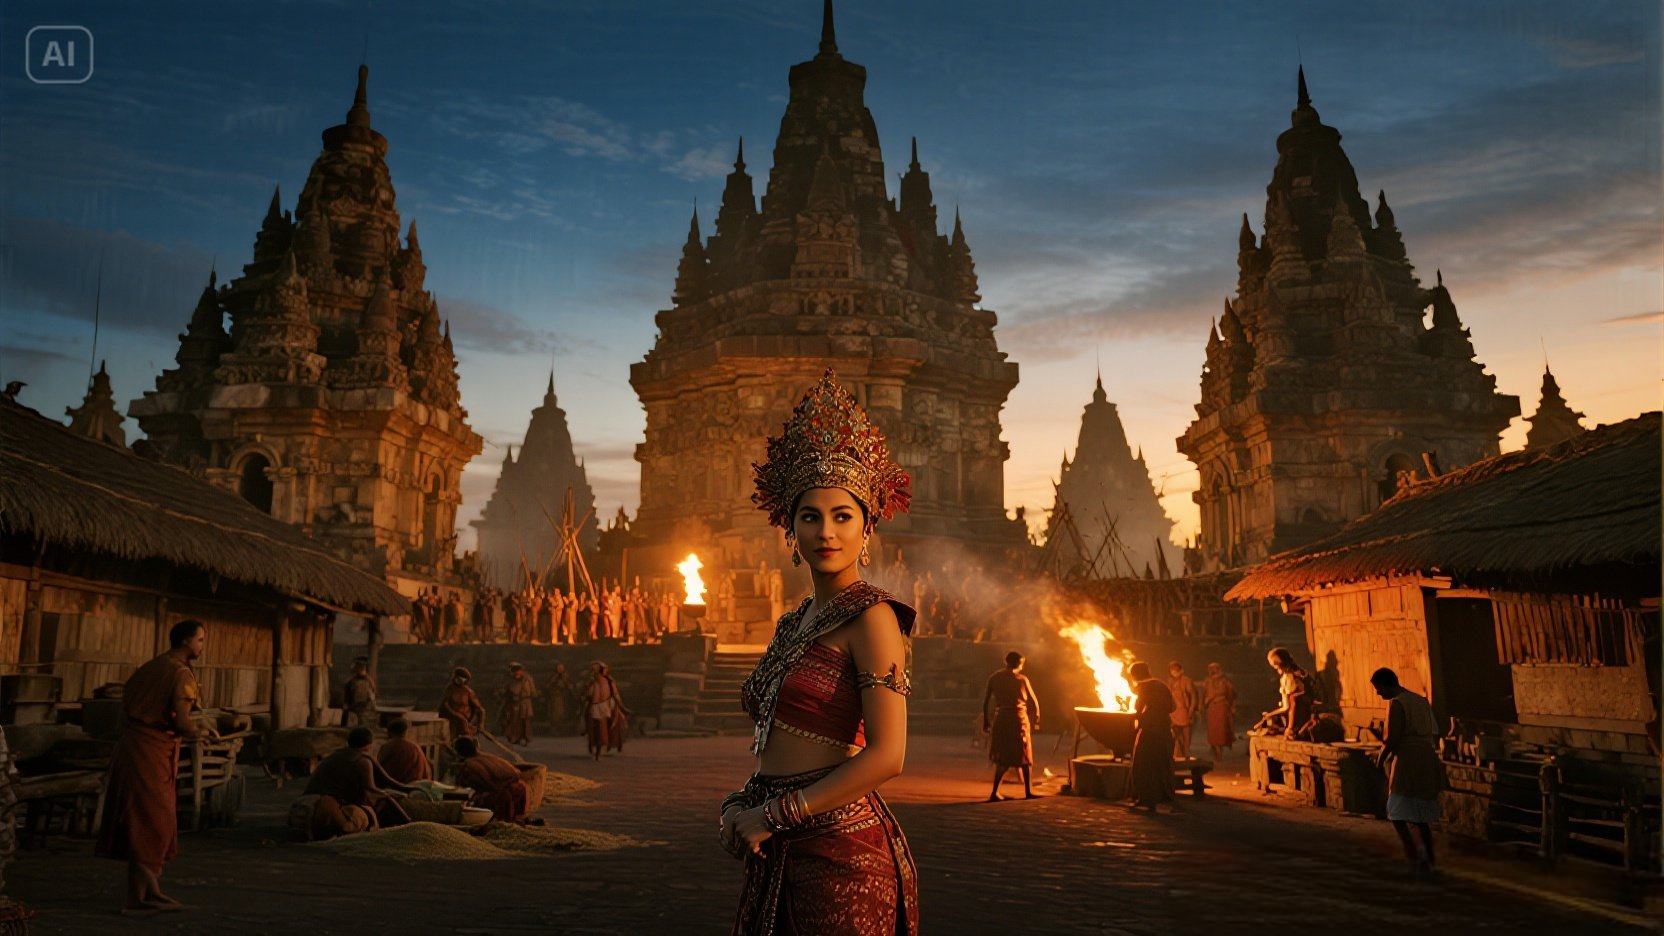
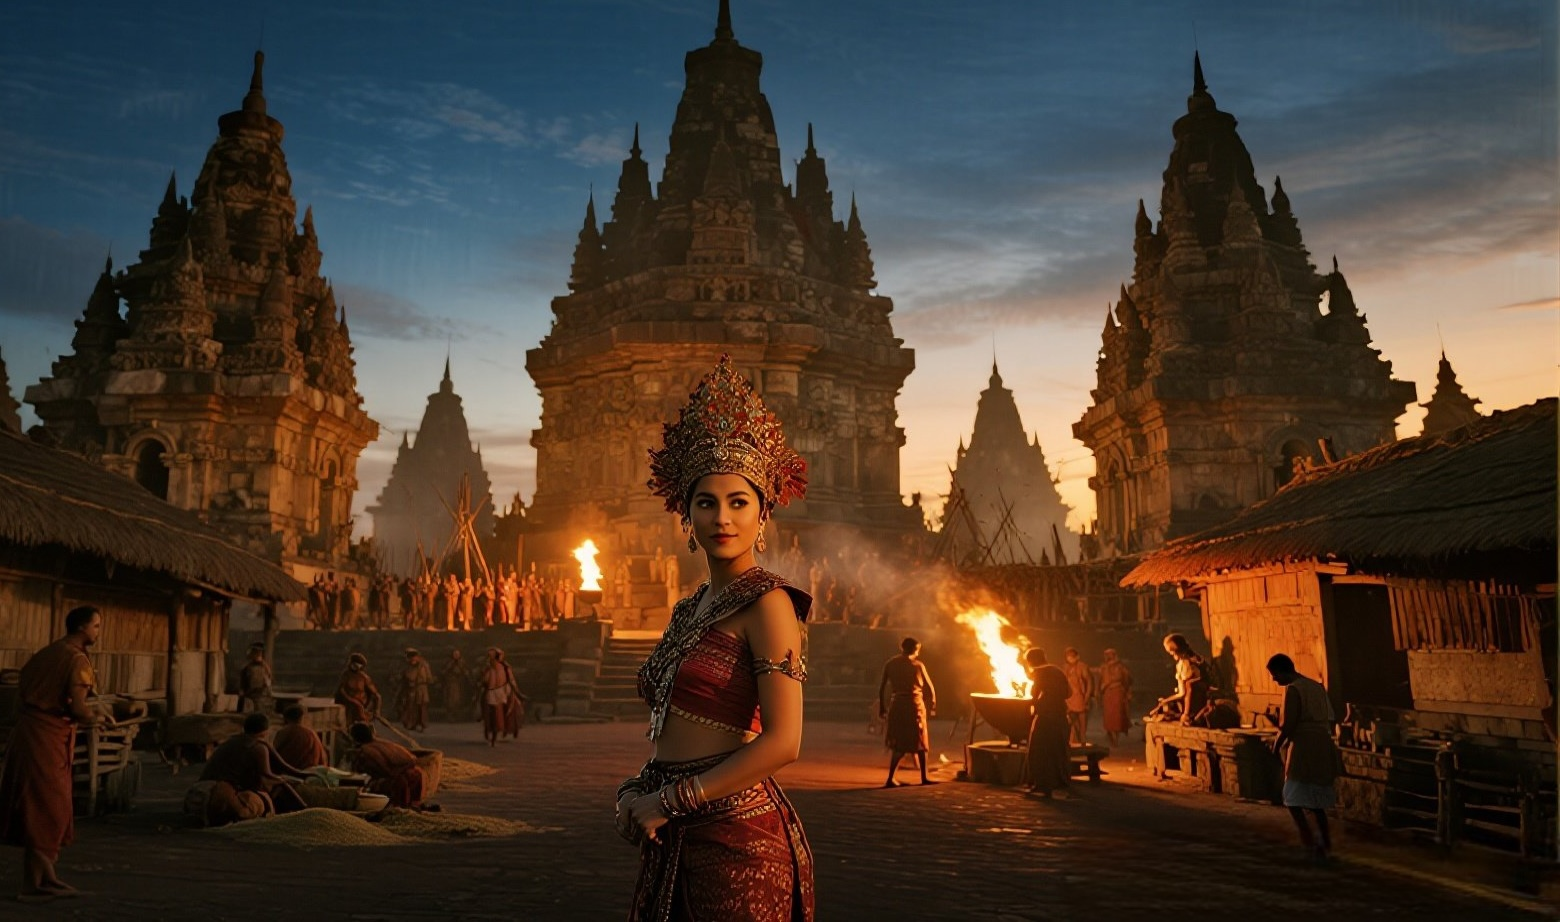
Mengganti object-fit: contain menjadi object-fit: cover untuk Full Screen, menghilangkan bagian kosong.

diff --git a/index.html b/index.html
@@ -64,9 +64,11 @@
         z-index: 1; 
     }
     
+    /* FIX KRITIS 1: object-fit: cover (memastikan foto mengisi penuh layar) */
     #background, #character {
         position: absolute; inset: 0; width: 100%; height: 100%; 
-        object-fit: cover;
+        object-fit: cover; /* PERUBAHAN DI SINI */
+        background-color: black; 
     }
 
     #background {
@@ -80,7 +82,8 @@
     }
 
     #textbox {
-        position:absolute; bottom:0; width:100%; background:rgba(0,0,0,0.7);
+        position:absolute; bottom:0; width:100%; 
+        background:rgba(0,0,0,0.7);
         padding:20px; box-sizing:border-box;
         z-index: 20;
         opacity:0; transition: opacity .5s;
@@ -261,15 +264,16 @@
             font-size: 1.1rem;
         }
         
-        /* Penyesuaian Textbox (Kotak Dialog) */
+        /* FIX KRITIS 2: Penyesuaian Textbox (Kotak Dialog) */
         #textbox {
-            padding: 10px; 
-            max-height: 40vh; 
+            padding: 8px; 
+            max-height: 25vh; 
             overflow-y: auto; 
+            background:rgba(0,0,0,0.7); 
         }
         #text {
-            font-size: 1.1rem; 
-            min-height: 3em; 
+            font-size: 1.0rem; 
+            min-height: 2em; 
         }
 
         /* Penyesuaian Tombol Kontrol */
@@ -408,7 +412,8 @@ const scenes = {
     toba_scene2: { bg: "images/toba_full3.jpg", char: "", text: "Wanita itu setuju menikah dengan Toba, dengan satu syarat mutlak: Toba tidak boleh menceritakan asal usulnya kepada siapa pun, termasuk kepada anak mereka kelak.", next: "toba_scene3" },
     toba_scene3: { bg: "images/toba_full4.jpg", char: "", text: "Toba menyanggupi dan mereka menikah, memiliki seorang putra bernama Samosir. Samosir tumbuh menjadi anak yang malas.", next: "toba_scene4" },
     toba_scene4: { bg: "images/toba_full5.jpg", char: "", text: "Suatu hari, Toba marah besar karena Samosir tidak menjalankan perintahnya dan malah menghabiskan bekal makanan Toba. Dalam amarahnya, Toba berteriak: 'Dasar anak ikan!' Samosir menangis dan ibunya yang mengetahui sangat kecewa.", next: "toba_scene5" },
-    toba_scene5: { bg: "images/toba_full6.jpg", char: "", text: "Seketika akibat amarah sang istri langit menjadi mendung, dan hujan deras turun disertai gempa bumi. Air meluap dan menenggelamkan desa Toba, membentuk Danau Toba. Istri Toba kembali menjadi ikan, dan Samosir menjadi pulau di tengah danau.", next: "toba_end" },
+    toba_scene5: { bg: "images/toba_full6.jpg", char: "", text: "Seketika akibat amarah sang istri langit menjadi mendung, dan hujan deras turun disertai gempa bumi. Air meluap dan menenggelamkan desa Toba, membentuk Danau Toba. Istri Toba kembali menjadi ikan, dan Samosir menjadi pulau di tengah danau.", next: "toba_scene5" },
+    toba_scene5: { bg: "images/toba_full7.jpg", char: "", text: "Seketika akibat amarah sang istri langit menjadi mendung, dan hujan deras turun disertai gempa bumi. Air meluap dan menenggelamkan desa Toba, membentuk Danau Toba. Istri Toba kembali menjadi ikan, dan Samosir menjadi pulau di tengah danau.", next: "toba_end" },
     toba_end: {
         bg: "images/toba_full_end.jpg", char: "", text: "Hingga kini, Danau Toba yang indah dan Pulau Samosir menjadi pengingat abadi akan janji yang dilanggar dan konsekuensi dari amarah yang tak terkendali. (Akhir Kisah Danau Toba 🏞).", next: "selection"
     },
@@ -476,7 +481,6 @@ function makeSparkles() {
 }
 function enableSparkles(enable) {
     sparklesContainer.style.opacity = enable ? 1 : 0;
-    // sparklesContainer.style.display = enable ? 'block' : 'none'; // Dihapus karena opacity sudah mengontrol tampilan
 }
 makeSparkles(); 
 
@@ -509,7 +513,6 @@ function fadeOutBGM(callback) {
 
 function fadeInBGM() {
     bgm.volume = 0;
-    // Menggunakan play() dalam try-catch untuk menangani batasan browser (seperti di seluler)
     bgm.play().then(() => {
         isMusicPlaying = true;
         btnBgm.innerText = '🔇 Musik';
@@ -537,20 +540,16 @@ function fadeInBGM() {
 
 // --- FUNGSI BGM (MODIFIKASI) ---
 function playBGM(newMusicPath) {
-    // Cek apakah musik yang baru sama dengan yang sedang diputar
     if (bgm.src.indexOf(newMusicPath) !== -1 && isMusicPlaying) {
-        return; // Tidak perlu ganti jika musiknya sama
+        return; 
     }
     
-    // 1. Matikan musik lama dengan fade out
     fadeOutBGM(() => {
-        // 2. Setelah fade out selesai, atur sumber musik baru
         if (bgm.src.indexOf(newMusicPath) === -1) {
             bgm.src = newMusicPath;
             bgm.load();
         }
         
-        // 3. Putar dan lakukan fade in
         fadeInBGM();
     });
 }
@@ -605,7 +604,6 @@ function startTransition(callback) {
 startButton.onclick = () => {
     introScreen.style.opacity = 0; 
     
-    // Inisialisasi musik dan Fade In pertama kali (Dipicu oleh interaksi pengguna)
     bgm.src = DEFAULT_BGM;
     bgm.load();
     fadeInBGM(); 
@@ -625,7 +623,6 @@ function loadScene(key) {
     if(!sc) return;
 
     startTransition(() => {
-        // GANTI MUSIK JIKA ADA PERUBAHAN DI SCENE BARU 
         if (sc.music) { playBGM(sc.music); }
 
         clearTimeout(autoTimeout);
@@ -683,15 +680,16 @@ function loadScene(key) {
         // --- LOGIC STANDARD UNTUK SCENE CERITA LINIER ---
         btnBack.style.display = 'block'; 
         enableSparkles(false); 
-        charImg.style.display = 'block';
+        
+        // FIX KRITIS 3: Sembunyikan karakter karena sumber gambar (sc.char) selalu kosong.
+        charImg.style.display = 'none'; 
+        charImg.src = sc.char; 
 
-        // Jika ini adalah scene Judul Cerita, gunakan kotak teks besar di tengah
         if (sc.isTitle) {
             fullTextBox.classList.add('story-title-box');
         }
         
         bgImg.src = sc.bg; 
-        charImg.src = sc.char; 
         
         setTimeout(() => {
             bgImg.style.opacity = 1; 
@@ -725,16 +723,13 @@ function nextScene() {
     const nextKey = currentScene.next; 
 
     if (nextKey && scenes[nextKey]) {
-        // Sebelum pindah ke scene berikutnya, pastikan Judul dihapus jika scene berikutnya bukan Judul
         if (scenes[currentStoryKey].isTitle && scenes[nextKey].next !== 'timun_mas_start' && scenes[nextKey].next !== 'toba_start' && scenes[nextKey].next !== 'roro_jonggrang_start') {
              fullTextBox.classList.remove('story-title-box');
         }
         loadScene(nextKey);
     } else {
-        // Akhir Cerita
         fullTextBox.style.opacity = 0;
         startTransition(() => {
-            // Fade out BGM saat cerita berakhir
             fadeOutBGM(); 
             
             bgImg.src = scenes['selection'].bg; 
@@ -755,10 +750,8 @@ function nextScene() {
 // --- EVENT LISTENER TOMBOL KONTROL (MODIFIKASI BGM) ---
 btnBgm.onclick = () => { 
     if (bgm.paused || !isMusicPlaying) {
-        // Jika paused/stop, lakukan fade in
         fadeInBGM();
     } else {
-        // Jika sedang putar, lakukan fade out
         fadeOutBGM();
     }
 };
@@ -790,11 +783,9 @@ btnBack.onclick = () => {
     loadScene('selection');
 };
 
-// --- EVENT LISTENER UNTUK LANJUT SCENE (Keyboard) ---
 document.addEventListener('keydown', e => { 
     if (e.key === ' ' || e.key === 'Enter') {
         e.preventDefault();
-        // Hanya panggil nextScene jika transisi overlay sedang tidak aktif
         if (transitionOverlay.style.opacity === '0' || transitionOverlay.style.opacity === '') {
             nextScene(); 
         }
@@ -803,13 +794,10 @@ document.addEventListener('keydown', e => {
 
 // --- EVENT LISTENER UNTUK LANJUT SCENE (Click/Touch - Penting untuk Mobile) ---
 document.addEventListener('click', e => {
-    // Abaikan klik pada tombol kontrol atau pilihan
     if (e.target.closest('.fairy-btn') || e.target.closest('.thumbnail-choice') || e.target.closest('#start-button')) {
         return; 
     }
-    // Hanya panggil nextScene jika transisi overlay sedang tidak aktif dan gameContainer terlihat
     if (gameContainer.style.opacity === '1' && (transitionOverlay.style.opacity === '0' || transitionOverlay.style.opacity === '')) {
-        // Jika sedang di layar seleksi, jangan lakukan apa-apa
         if (scenes[currentStoryKey] && scenes[currentStoryKey].isSelection) {
             return;
         }
